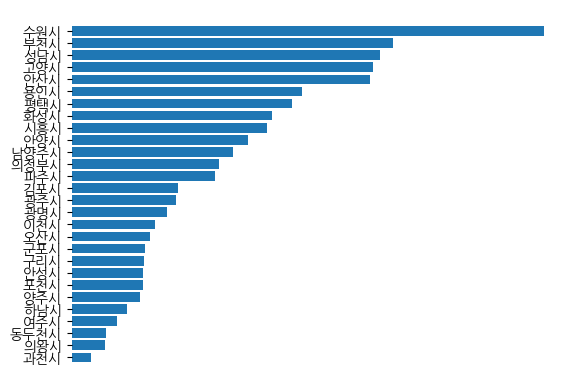
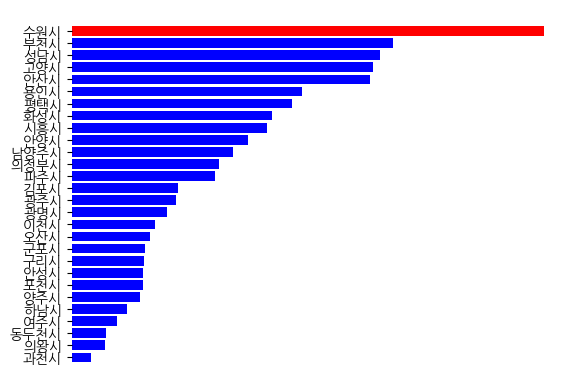
0612_1114

Changed region(s): [[0.1248, 0.0617, 0.9671, 0.9563]]

diff --git a/gui.py b/gui.py
@@ -110,6 +110,7 @@ def saveCrimeCountGraph():
 
     summations=[]
     cities=temp.columns[2:]
+    bar_colors=[]
 
     for i in range(10):
         y=list(temp.iloc[i])[2:]
@@ -118,12 +119,14 @@ def saveCrimeCountGraph():
     for city in cities:
         y=temp[city]
         summations.append(sum([int(i) for i in y]))
+        bar_colors.append('blue')
+
+    bar_colors[len(bar_colors)-1]='red'
 
     temp_2017=pd.DataFrame({'City':x, 'Counts':summations})
     temp_2017=temp_2017.sort_values(['Counts','City'], ascending=True)
-    # print(temp_2017)
 
-    plt.barh(range(len(x)), list(temp_2017['Counts']))
+    plt.barh(range(len(x)), list(temp_2017['Counts']), color=bar_colors)
 
     ax = plt.gca()
     ax.axes.xaxis.set_visible(False)
@@ -148,9 +151,9 @@ def saveCorrGraph():
     bell_counts=[1733, 863, 1257, 59]
     policeman_counts=[539, 148, 300, 45]
 
-    plt.clf()
-    plt.bar(range(3),[cctv_counts[0],bell_counts[0], policeman_counts[0]], label=['CCTV','Bell','PoliceMan'])
-    plt.savefig('FaciDiff.png', transparent=True, bbox_inches = 'tight')
+    # plt.clf()
+    # plt.bar(range(3),[cctv_counts[0],bell_counts[0], policeman_counts[0]], label=['CCTV','Bell','PoliceMan'])
+    # plt.savefig('FaciDiff.png', transparent=True, bbox_inches = 'tight')
 
     data=pd.DataFrame({'CCTV':cctv_counts, 'Bell':bell_counts, 'PoliceMan':policeman_counts, 'Crime':crime_counts}, index=[2017,2018,2019,2020])
     corr_result=data.corr(method='pearson')
@@ -183,7 +186,6 @@ def getCrimeDifference(city):
     plt.bar(range(len(crime_difference)),d3,label=crime_difference)
     plt.savefig('Crime_difference.png', transparent=True, bbox_inches = 'tight')
 
-    print(crime_difference)
     return crime_difference
 
 getCrimeDifference('수원시')
@@ -209,7 +211,7 @@ def saveCrimePieChart(city):
 
     plt.clf()
     fig = plt.gcf()
-    fig.set_size_inches(6, 4)
+    fig.set_size_inches(5, 3)
 
     year2017=list(crime_diff['2017'].values) # [672,5494,7919,7973,595,1133,158,318,32,14266]
     year2018=list(crime_diff['2018'].values) # [637,5381,8071,8723,613,1131,98,355,35,11159]
@@ -228,20 +230,56 @@ def saveCrimePieChart(city):
     for i, colname in enumerate(zip(category_names)):
         widths = data[:, i]
         starts = data_cum[:, i] - widths
-        rects = plt.barh(['2017','2018'], widths, left=starts, height=0.5,
+        rects = plt.barh(['2017','2018'], widths, left=starts, height=0.4,
                         label=category_names[i])
 
+    plt.title("Crime ratio, amount in 2017-2018", fontsize=14)
     plt.legend(loc="lower left", ncol=len(category_names)//2)
     plt.savefig('Crime_2017_2018_2.png', dpi=100, transparent=True, bbox_inches = 'tight')
 
 saveCrimePieChart('수원시')
 
 def saveFacilitiesGraph():
-    cctv=loadCCTVData('수원시')
-    bell=loadBellData('수원시')
-    # plt.stackplot(x,y_list,labels = ['강력', '절도', '폭력', '지능', '풍속', '특별경제', '마약', '보건', '환경', '교통'])
+    # TODO: 문주님
+    # 전처리 데이터프레임 객체 값 -> df = pd.DataFrame([[124, 55, 122],[444, 22, 555]]) 라면
 
+    # 피쳐 - 전처리 된 데이터프레임 객체 컬럼 별 선택 (numpy array든 파이썬 list)
+    Y_cctv = [100, 400]  # df['CCTV']
+    Y_bell = [5555, 2325] # df['BELL']
+    Y_police = [125412, 24142] # df['POLICE']
+    Y_crime = [80909, 12141] # df['CRIME']
 
+    #  figure 전체를 컨트롤하는 변수와 그래프 각각을 조절할 수 있는 변수
+    f, axes = plt.subplots(1, 3)
+
+    # 격자 크기 설정
+    f.set_size_inches((16, 5))
+
+    # 서브플롯들 X축은 모두 17' 18' 년도
+    x = ['2017', '2018']
+
+    axes[0].bar(x, Y_cctv, color = ['black', 'g'], alpha = 0.4, width=0.4)
+    axes[0].set_title("CCTV Trend", fontsize=14)
+    # axes[0].set_ylabel("count", fontsize=14)
+    # axes[0].set_xlabel("year", fontsize=14)
+
+    axes[1].bar(x, Y_bell, color = ['black', 'g'], alpha = 0.4, width=0.4)
+    axes[1].set_title("Bell Trend", fontsize=14)
+    # axes[1].set_xlabel("year", fontsize=14)
+
+    axes[2].bar(x, Y_police, color = ['black', 'g'], alpha = 0.4, width=0.4)
+    axes[2].set_title("Police Trend", fontsize=14)
+    # axes[2].set_xlabel("year", fontsize=14)
+
+    # axes[3].bar(x, Y_crime, color = ['black', 'g'], alpha = 0.4, width=0.4)
+    # axes[3].set_title("Crime Trend", fontsize=14)
+    # axes[3].set_xlabel("year", fontsize=14)
+    
+    fig = plt.gcf()
+    fig.set_size_inches(6, 4)
+    plt.savefig('FaciDiff.png', dpi=100, transparent=True, bbox_inches = 'tight')
+
+saveFacilitiesGraph()
 
 def polygon_click(polygon):
     print('cliekced', polygon.name)
@@ -280,13 +318,6 @@ frm2_1 = ttk.Frame(frm2, padding=0)
 map_widget=tkintermapview.TkinterMapView(frm2_1,height=550,width=1350,corner_radius=0)
 map_widget.set_position(37.394946, 127.111104)
 map_widget.place(height=550, width=1350, x=0, y=0)
-
-gyeonggi_geojson='./TL_SCCO_SIG.json'
-
-# for i in range(0,len(cctv_data),5):
-#     # 이거 다 띄우면 화면에 버퍼링생김
-#     # 일단 5개 마다 한개씩 띄움
-#     map_widget.set_marker(cctv_data.iloc[i]['위도'], cctv_data.iloc[i]['경도'], text=cctv_data.iloc[i]['설치목적구분'])
 
 gyeonggi_geojson='./TL_SCCO_SIG.json'
 
@@ -370,10 +401,18 @@ RadioVariety=IntVar()
 
 def ok():                
     if RadioVariety.get() == 1:
+        # cctv
+        for i in range(0,len(cctv_data),5):
+        # 이거 다 띄우면 화면에 버퍼링생김
+        # 일단 5개 마다 한개씩 띄움
+            map_widget.set_marker(cctv_data.iloc[i]['위도'], cctv_data.iloc[i]['경도'], text=cctv_data.iloc[i]['설치목적구분'], color='b')
 
-        str = "Radio 1 selected"
     if RadioVariety.get() == 2:
-        str = "Radio 2 selected"
+        # bell
+        for i in range(0,len(emergency_bell_data),5):
+        # 이거 다 띄우면 화면에 버퍼링생김
+        # 일단 5개 마다 한개씩 띄움
+            map_widget.set_marker(emergency_bell_data.iloc[i]['위도'], emergency_bell_data.iloc[i]['경도'], color='r')
  
 
 radio1=Radiobutton(frm2_1_2, text="경찰관 수", value=1, variable=RadioVariety, command=ok)
@@ -382,8 +421,7 @@ radio2=Radiobutton(frm2_1_2, text="범죄 발생 건수", value=2, variable=Radi
 radio2.grid(column=4, row=0)
 
 frm2_1_2.pack()
-frm2_1_2.place(height=50, width=700, x=0, y=450)
-
+frm2_1_2.place(height=50, width=500, x=0, y=470)
 
       
 
@@ -405,8 +443,8 @@ image5=PhotoImage(file="Crime_2017_2018_2.png",master=frm3_1)
 label=ttk.Label(frm3_2, image=image5)
 label.pack(anchor="w")
 
-# current_city = StringVar()
-# current_city.set('---')
+current_city = StringVar()
+current_city.set('---')
 
 # frm2_2_1=ttk.Frame(frm2_2, padding=0)
 # frm2_2_1.place(height=550, width=600, x=0, y=0)
